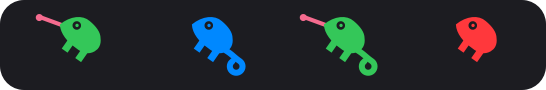
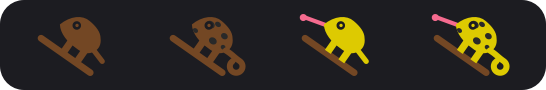
content: chameleon on its stick — brown, spotted, yellow, both
Claude-Session: https://claude.ai/code/session_01EwCsxHNg9UuBw5TRqP2eBv

diff --git a/site/apps/vpn-dns/index.html b/site/apps/vpn-dns/index.html
@@ -4,11 +4,11 @@
   <meta charset="utf-8">
   <meta name="viewport" content="width=device-width, initial-scale=1">
   <title>VPN &amp; DNS — Menubarn</title>
-  <meta name="description" content="One chameleon for Mullvad VPN and Tailscale: colour for Mullvad, a tail for Tailscale, a tongue while the tunnel is up. A sectioned menu covers both, and a watcher keeps DNS working when the two run at once.">
+  <meta name="description" content="One chameleon for Mullvad VPN and Tailscale: spots and a curled tail when Tailscale is on, yellow with its tongue out when the Mullvad tunnel is up. A sectioned menu covers both, and a watcher keeps DNS working when the two run at once.">
   <meta name="theme-color" content="#0b0d12">
   <meta property="og:type" content="article">
   <meta property="og:title" content="VPN &amp; DNS — Menubarn">
-  <meta property="og:description" content="One chameleon for Mullvad VPN and Tailscale: colour for Mullvad, a tail for Tailscale, a tongue while the tunnel is up. A sectioned menu covers both, and a watcher keeps DNS working when the two run at once.">
+  <meta property="og:description" content="One chameleon for Mullvad VPN and Tailscale: spots and a curled tail when Tailscale is on, yellow with its tongue out when the Mullvad tunnel is up. A sectioned menu covers both, and a watcher keeps DNS working when the two run at once.">
   <meta property="og:image" content="https://widgets.nicksmith.software/img/mascots/vpn-dns.png">
   <meta property="og:url" content="https://widgets.nicksmith.software/apps/vpn-dns/">
   <meta name="twitter:card" content="summary">
@@ -39,7 +39,7 @@
     <div>
       <p class="eyebrow">A Menubarn widget</p>
       <h1>VPN &amp; DNS</h1>
-      <p class="lede">One chameleon for Mullvad VPN and Tailscale: colour for Mullvad, a tail for Tailscale, a tongue while the tunnel is up. A sectioned menu covers both, and a watcher keeps DNS working when the two run at once.</p>
+      <p class="lede">One chameleon for Mullvad VPN and Tailscale: spots and a curled tail when Tailscale is on, yellow with its tongue out when the Mullvad tunnel is up. A sectioned menu covers both, and a watcher keeps DNS working when the two run at once.</p>
       <p class="chips"><span>StatusItemKit</span></p>
       <div class="cta">
         <a class="btn btn-primary" href="#install">Install</a>
@@ -53,8 +53,8 @@
   <div class="app-glance">
     <div class="glance">
       <h2>In the menu bar</h2>
-      <img class="glance-strip" src="../../img/glyphs/vpn-dns.png" alt="VPN and DNS chameleon in green with a tongue, blue with a tail, green with both, red">
-      <p>Colour is Mullvad, blue is Tailscale as the active path, the tongue is a live tunnel, the tail is Tailscale running.</p>
+      <img class="glance-strip" src="../../img/glyphs/vpn-dns.png" alt="VPN and DNS chameleon on its stick: brown, spotted with a curled tail, yellow with its tongue out, then both">
+      <p>Brown on its stick when idle. Spots and a curled tail for Tailscale, yellow and a tongue for Mullvad, all of it for both.</p>
     </div>
     <div class="glance">
       <h2>The menu</h2>
@@ -76,16 +76,17 @@ Mullvad/Tailscale menu-bar icons (e.g. with
 <a href="https://github.com/nicholaspsmith/menubar-barn">Barn</a>) and let this be the only one.</p>
 <h2>What you see</h2>
 <p>The menu bar shows <strong>one icon</strong>: a chameleon.</p>
+<p>It hangs onto a brown stick and is brown like the stick while nothing is
+connected.</p>
 <ul>
-<li>Its <strong>colour</strong> tracks Mullvad: green connected, orange connecting or
-  disconnecting, red blocked, grey off — and <strong>blue</strong> when Mullvad is off but
-  Tailscale is running, since Tailscale is then the active path.</li>
-<li>Its <strong>tongue</strong> flicks out while Mullvad is connected.</li>
-<li>Its <strong>tail</strong> hangs down while Tailscale is running.</li>
+<li><strong>Tailscale running:</strong> it grows dark spots (Tailscale's own icon is dots)
+  and its tail curls. Otherwise the tail is short and straight.</li>
+<li><strong>Mullvad connected:</strong> it turns yellow and its tongue flicks out.</li>
+<li><strong>Both:</strong> yellow with spots, tongue out, tail curled.</li>
+<li>Mullvad's in-between states still show as the dot's colours: orange while
+  connecting or disconnecting, red when blocked.</li>
 </ul>
-<p>So: green with a tongue is Mullvad alone, blue with a tail is Tailscale alone,
-green with both is both, and a plain red one is blocked with Tailscale off.
-Prefer the original dot? <strong>menu ▸ Icon ▸ Dot</strong>.</p>
+<p>Prefer the original dot? <strong>menu ▸ Icon ▸ Dot</strong>.</p>
 <p>Clicking it opens a dropdown, grouped into two bold section headers:</p>
 <pre><code>Mullvad - Fair Sheep                      ← bold section header, names this
   ●  Connected — Denver, CO                 machine's registered device

diff --git a/art/glyphs/main.swift b/art/glyphs/main.swift
@@ -69,7 +69,7 @@ let dim = NSColor(white: 0.62, alpha: 1)
 // Representative single states (the hero bar).
 save(barn(open: false), "icon-barn.png")
 save(CharacterIcon.key(level: 0.6, active: true), "icon-keylight.png")
-save(CharacterIcon.chameleon(color: .systemGreen, tail: true, tongue: true), "icon-vpn-dns.png")
+save(CharacterIcon.chameleon(tailscale: true, mullvad: true), "icon-vpn-dns.png")
 save(CharacterIcon.octopus(fraction: 0.3), "icon-process-monitor.png")
 save(BatteryGlyph.image(pct: 80, charging: false, lead: "80%", trailing: "9:55", ink: white, fill: .none, face: true), "icon-battery-time.png")
 save(CharacterIcon.owl(session: 0.58, weekly: 0.33), "icon-claude-usage.png")
@@ -81,7 +81,7 @@ save(CharacterIcon.bin(active: true), "icon-download-recycler.png")
 // State strips, in the order the READMEs describe them.
 strip([barn(open: false), barn(open: true)], "states-barn.png")
 strip([CharacterIcon.key(level: 0, active: true), CharacterIcon.key(level: 0.25, active: true), CharacterIcon.key(level: 0.75, active: true), CharacterIcon.key(level: 1, active: true)], "states-keylight.png")
-strip([CharacterIcon.chameleon(color: .systemGreen, tail: false, tongue: true), CharacterIcon.chameleon(color: .systemBlue, tail: true, tongue: false), CharacterIcon.chameleon(color: .systemGreen, tail: true, tongue: true), CharacterIcon.chameleon(color: .systemRed, tail: false, tongue: false)], "states-vpn-dns.png")
+strip([CharacterIcon.chameleon(tailscale: false, mullvad: false), CharacterIcon.chameleon(tailscale: true, mullvad: false), CharacterIcon.chameleon(tailscale: false, mullvad: true), CharacterIcon.chameleon(tailscale: true, mullvad: true)], "states-vpn-dns.png")
 strip([CharacterIcon.octopus(fraction: 0.1), CharacterIcon.octopus(fraction: 0.3), CharacterIcon.octopus(fraction: 0.6), CharacterIcon.octopus(fraction: 0.9)], "states-process-monitor.png")
 strip([BatteryGlyph.image(pct: 80, charging: false, lead: "80%", trailing: "", ink: white, fill: .none, face: true), BatteryGlyph.image(pct: 40, charging: true, lead: "40%", trailing: "1:10", ink: white, fill: .none, face: true), BatteryGlyph.image(pct: 15, charging: false, lead: "", trailing: "", ink: white, fill: .red, face: true)], "states-battery-time.png")
 strip([CharacterIcon.owl(session: 0.05, weekly: 0.1), CharacterIcon.owl(session: 0.5, weekly: 0.3), CharacterIcon.owl(session: 0.9, weekly: 0.6), CharacterIcon.owl(session: 1, weekly: 1)], "states-claude-usage.png")

diff --git a/site/index.html b/site/index.html
@@ -75,8 +75,8 @@
 
     <a class="card" href="apps/vpn-dns/" data-repo="https://github.com/nicholaspsmith/vpn-dns-menubar">
       <div class="card-top"><img class="mascot" src="img/mascots/vpn-dns.png" alt="" width="72" height="72"><div><h3>VPN &amp; DNS</h3><p class="chips"><span>StatusItemKit</span></p></div></div>
-      <div class="inbar"><img src="img/glyphs/vpn-dns.png" alt="VPN and DNS chameleon in green with a tongue, blue with a tail, green with both, red" loading="lazy"><p>Colour is Mullvad, blue is Tailscale as the active path, the tongue is a live tunnel, the tail is Tailscale running.</p></div>
-      <p>One chameleon for Mullvad VPN and Tailscale: colour for Mullvad, a tail for Tailscale, a tongue while the tunnel is up. A sectioned menu covers both, and a watcher keeps DNS working when the two run at once.</p>
+      <div class="inbar"><img src="img/glyphs/vpn-dns.png" alt="VPN and DNS chameleon on its stick: brown, spotted with a curled tail, yellow with its tongue out, then both" loading="lazy"><p>Brown on its stick when idle. Spots and a curled tail for Tailscale, yellow and a tongue for Mullvad, all of it for both.</p></div>
+      <p>One chameleon for Mullvad VPN and Tailscale: spots and a curled tail when Tailscale is on, yellow with its tongue out when the Mullvad tunnel is up. A sectioned menu covers both, and a watcher keeps DNS working when the two run at once.</p>
       <div class="shot"><img src="img/menus/vpn-dns.png" alt="The VPN &amp; DNS menu" loading="lazy"></div>
     </a>
 
